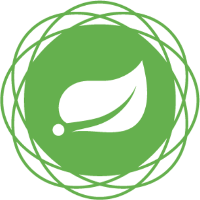
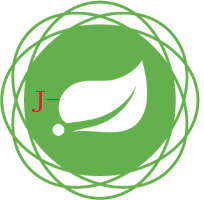
auto update

diff --git a/README.md b/README.md
@@ -1,4 +1,4 @@
-# <img src="doc/spring-framework.png" width="80" height="80"> Spring Framework For Node
+# <img src="doc/spring-framework.png" width="80" height="80"> J-Spring Framework For Node
 
 ---
 
@@ -17,7 +17,7 @@ Class Application {
           alibaba-sms-demo:
             key: 'xxx'
             secret: 'xxx'
-      3. 在项目中引入具体Bean
+      3. 在项目中引入alibaba-sms-demo包中具体组件
   */
   //@Autowired(alibaba.sms.demo.smsUtil)
   smsUtil;
@@ -37,7 +37,7 @@ Class Application {
 - 支持注解
 - 无第三方依赖
 - 无需babel编译
-- 支持注入Npm包组件
+- 支持注入Npm组件
 
 ---
 
@@ -51,29 +51,30 @@ Class Application {
 
 ## 文档
 
-* 如何使用
-  > 1.手动创建  
-  > 2.脚手架自动创建   
+* 一、如何使用
+  > 1.[创建项目](doc/1-1.md)
 
-* 启动流程及参数设置
+* 二、启动流程
   > 1.启动流程  
-  > 2.启动参数  
-  > 3.线上启动
 
-* 定义注解
+* 三、启动参数
+  > 1.参数详解  
+
+* 四、注解
   > 1.内置注解    
-  > 2.定义注解
+  > 2.自定义注解  
+  > 3.运行时操作注解
 
-* 定义Bean
+* 五、Bean
   > 1.内置bean  
   > 2.定义Bean  
 
 
-* 设置AOP
+* 六、AOP
  > 1.代理设置
 
 
-* npm组件包
+* 七、npm
   > 1.开发组件包  
   > 2.引入组件包
 

diff --git a/doc/1-1.md b/doc/1-1.md
@@ -1,0 +1,1 @@
+# 创建项目
